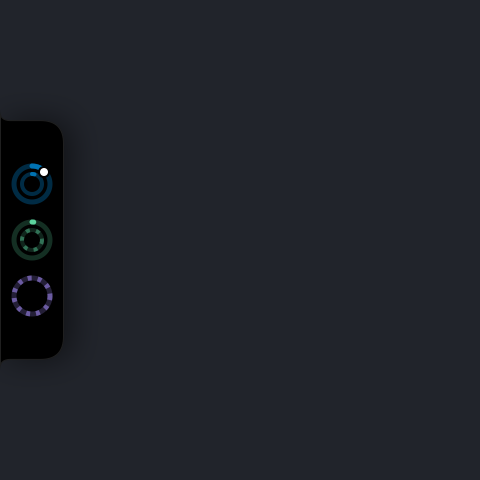
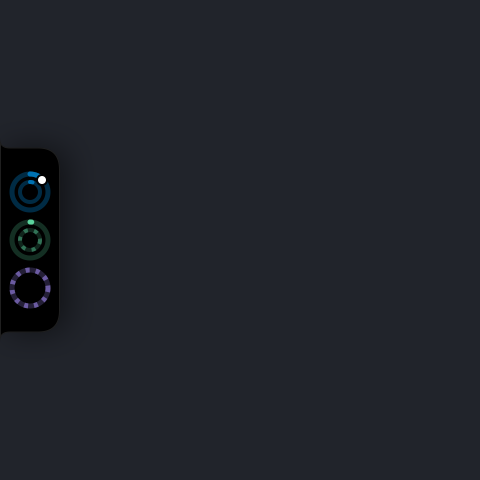
Halve the side notch's depth, and let it read as the cut it claims to be
The side notch shipped 72 pt deep against a 189 pt run. The hardware notch is
38 over 185 — a ratio of 0.21 — so at 0.38 it was very nearly twice as deep in
proportion as the thing it imitates, and it read as a slab bolted to the edge
rather than as a piece taken out of the screen.

Nothing about the shape was wrong. The depth of a side notch is set by the
width of the widest thing inside it, and that was "100% · 50%": the two window
figures on one line, laid out the way the strip beside the top notch lays them
out, where one line is the right answer because there the long axis is the one
with room. On a side edge it is the short one.

So the figures stack on the side edges, at 9.5 pt rather than 11 because two
lines have to fit where one did. The same two numbers now take about 26 points
across instead of 62, and the shape measures 35 × 188.

Stacking costs height, and the height was already the other half of "too big",
so the run is paid for twice over. `flareCap` goes from 16 to 10: it caps the
fillet, but it is also what `EdgeNotch` pads by at each end of the run, and the
padding is the more expensive of the two jobs on a shape whose whole point is
to be shallow. At 54 pt — the deepest a side pill gets, rings and numbers with
the reset countdown on — the flare is 8.5, so the tighter cap clips nothing a
user can reach. `EdgeCompactView` gives up four points of vertical padding and
four of spacing, and a ring sits one point closer to its own figures.
[…]

Changed region(s): [[0.0, 0.25, 0.1562, 0.75]]

diff --git a/Sources/Notchmeter/NotchViews.swift b/Sources/Notchmeter/NotchViews.swift
@@ -373,24 +373,41 @@ struct CompactNumbers: View {
     var badges = false
     var signal: ToolSignal? = nil
     var presence: PresenceLevel = .legible
+    /// One figure a line, for the side edges. A notch is a shallow shape — the hardware one is 185 across and 38
+    /// deep — and the depth of a side notch is set by nothing but the width of the widest thing in it. Laid out
+    /// the way the top strip lays them out, "100% · 50%" made the shape 76 points deep against a 181 point run:
+    /// a ratio of 0.42 where the notch it imitates is 0.17, which is what made it read as a slab bolted to the
+    /// edge rather than a piece taken out of the screen. Stacked, and a point and a half smaller because two
+    /// lines have to fit where one did, the same two figures take about 26 points across instead of 62 and the
+    /// shape comes back to a notch's proportions without losing a number.
+    var stacked = false
 
     var body: some View {
         TimelineView(.periodic(from: .now, by: countdown ? 60 : 3600)) { context in
             let segments = CompactLabel.segments(for: windows, display: display, countdown: countdown, now: context.date)
-            HStack(spacing: 3) {
-                if badges, status.problem != nil {
-                    ProblemMark()
+            let figures = ForEach(Array(segments.enumerated()), id: \.offset) { index, segment in
+                if index > 0, !stacked {
+                    Text(verbatim: CompactLabel.separator).foregroundStyle(.secondary)
                 }
-                ForEach(Array(segments.enumerated()), id: \.offset) { index, segment in
-                    if index > 0 {
-                        Text(verbatim: CompactLabel.separator).foregroundStyle(.secondary)
+                Text(verbatim: segment.text)
+                    .foregroundStyle(color(for: segment))
+                    .contentTransition(AccessibilityDisplay.shared.motionReduced ? .identity : .numericText())
+            }
+            Group {
+                if stacked {
+                    // No separator between them: the line break is the separator, and a dot on its own line reads
+                    // as a bullet rather than as the join it is.
+                    VStack(alignment: .center, spacing: 0) { figures }
+                } else {
+                    HStack(spacing: 3) {
+                        if badges, status.problem != nil {
+                            ProblemMark()
+                        }
+                        figures
                     }
-                    Text(verbatim: segment.text)
-                        .foregroundStyle(color(for: segment))
-                        .contentTransition(AccessibilityDisplay.shared.motionReduced ? .identity : .numericText())
                 }
             }
-            .font(.system(size: 11, weight: .semibold, design: .rounded))
+            .font(.system(size: stacked ? 9.5 : 11, weight: .semibold, design: .rounded))
             .monospacedDigit()
             .opacity(presence.readoutOpacity)
             .overlay(alignment: .topTrailing) {
@@ -566,7 +583,7 @@ struct CompactReadout: View {
         let reduceMotion = AccessibilityDisplay.shared.motionReduced
         Group {
             if axis == .vertical {
-                VStack(spacing: 3) { parts }
+                VStack(spacing: 2) { parts }
             } else {
                 HStack(spacing: 5) { parts }
             }
@@ -610,7 +627,7 @@ struct CompactReadout: View {
             }
             if showNumbers {
                 CompactNumbers(tool: tool, status: status, windows: windows, display: display, countdown: countdown,
-                               badges: !style.showsRings, signal: signal, presence: presence)
+                               badges: !style.showsRings, signal: signal, presence: presence, stacked: axis == .vertical)
             }
         }
     }
@@ -721,7 +738,7 @@ struct EdgeCompactView: View {
             if horizontal {
                 HStack(spacing: 10) { readouts }.padding(.horizontal, 12).padding(.vertical, 7)
             } else {
-                VStack(spacing: 10) { readouts }.padding(.vertical, 12).padding(.horizontal, 7)
+                VStack(spacing: 6) { readouts }.padding(.vertical, 8).padding(.horizontal, 6)
             }
         }
         .environment(\.layoutDirection, .leftToRight)

diff --git a/Tests/NotchmeterTests/SideNotchTests.swift b/Tests/NotchmeterTests/SideNotchTests.swift
@@ -33,13 +33,15 @@ import Testing
         #expect(radii.nose == 14)
     }
 
-    /// The notch the app actually draws. A fixed 6 pt flare on a shape more than twice as deep as the hardware
-    /// notch would read as a nick in a rounded rectangle rather than as the same cut.
+    /// The notch the app actually draws. A fixed 6 pt flare on a shape deeper than the hardware notch would read
+    /// as a nick in a rounded rectangle rather than as the same cut.
     @Test func theShippedDepthScalesBothRadiiWithIt() {
-        // The measured pill is 82 pt deep (docs/qa/e2e-report.md): 82 × 6/38 = 12.947…, 82 × 14/38 = 30.210…
-        let radii = SideNotchShape.radii(depth: 82, run: 234)
-        #expect(abs(radii.flare - 82 * 6 / 38) < 0.001)
-        #expect(abs(radii.nose - 82 * 14 / 38) < 0.001)
+        // The side pill measures 35 pt deep at rings and numbers and 54 with the reset countdown on, which is the
+        // deepest a user can make it: 54 × 6/38 = 8.526…, 54 × 14/38 = 19.894…, and the flare is still under its
+        // cap, which is what lets EdgeNotch pad by the cap without ever clipping a ring.
+        let radii = SideNotchShape.radii(depth: 54, run: 234)
+        #expect(abs(radii.flare - 54 * 6 / 38) < 0.001)
+        #expect(abs(radii.nose - 54 * 14 / 38) < 0.001)
         #expect(radii.flare < SideNotchShape.flareCap,
                 "the padding EdgeNotch adds is the cap, so a flare at or past it would start clipping the rings")
     }
@@ -47,7 +49,7 @@ import Testing
     /// The no-room fallback never draws this shape, but a wide density or a future readout could still deepen it,
     /// and the ratios alone would flare a panel-deep shape sixty points and turn a notch into a leaf.
     @Test func theRadiiAreCappedSoADeepShapeIsStillANotch() {
-        // 200 × 6/38 = 31.6 and 200 × 14/38 = 73.7, both far past the caps of 16 and 36.
+        // 200 × 6/38 = 31.6 and 200 × 14/38 = 73.7, both far past the caps of 10 and 36.
         let radii = SideNotchShape.radii(depth: 200, run: 800)
         #expect(radii.flare == SideNotchShape.flareCap)
         #expect(radii.nose == SideNotchShape.noseCap)
@@ -97,8 +99,11 @@ import Testing
 }
 
 /// Where the notch and the panel go once a side is flush and the panel opens beside it. The arithmetic is worked
-/// against the sizes a real run measured on a 1512 × 982 display (docs/qa/e2e-report.md): an 82 × 202 pt pill
-/// and a 388 × 855 pt panel.
+/// against a 388 × 855 pt panel on a 1512 × 982 display (docs/qa/e2e-report.md) and an 82 × 202 pt pill, which is
+/// deliberately deeper than the one that ships: the shape measures 35 × 188 at rings and numbers since the figures
+/// were stacked, and 54 at its widest with the reset countdown on. A stand-in half again as deep as the widest
+/// real one keeps the placement under more pressure than a user can put it under, which is what these tests are
+/// for — the no-room fallback fires on width, and a pill that cannot fill the margin would never reach it.
 @Suite struct EdgeArrangementTests {
     private let notch = NSSize(width: 82, height: 202)
     private let panel = NSSize(width: 388, height: 855)

diff --git a/Sources/Notchmeter/SideNotch.swift b/Sources/Notchmeter/SideNotch.swift
@@ -15,9 +15,17 @@ import SwiftUI
 /// inward, which is the trick the hardware notch plays and the only reason this layout exists.
 ///
 /// Both radii are fractions of how deep the shape is rather than fixed numbers, so the same shape at the top
-/// notch's own depth draws the top notch's own radii. Fixed radii would give the 82 pt-deep side notch this app
-/// measures the same 6 pt flare a 38 pt-deep hardware notch has, which reads as a nick in a rounded rectangle
-/// rather than as the same cut, and the two layouts would stop looking like one object.
+/// notch's own depth draws the top notch's own radii, and a shallower one draws proportionally shallower fillets
+/// instead of the same 6 pt flare at every size — which at the depths a side pill actually reaches would read as
+/// a nick in a rounded rectangle rather than as the same cut, and the two layouts would stop looking like one
+/// object.
+///
+/// Depth is the whole argument for this shape and it is worth writing down what it costs. The side pill first
+/// shipped laying each tool's two figures on one line, the way the strip beside the top notch lays them out, and
+/// that made it 72 pt deep against a 189 pt run: a ratio of 0.38 where the hardware notch is 38 over 185, or
+/// 0.21. It read as a slab bolted to the edge. Stacking the figures (`CompactNumbers.stacked`) took it to 35 by
+/// 203 — 0.17, shallower than the notch it imitates — and the run came back with a tighter cap here and less
+/// padding in `EdgeCompactView`.
 struct SideNotchShape: Shape {
     /// Which screen edge the straight face lies against. Only `.left` and `.right` draw this shape.
     let edge: PanelEdge
@@ -27,8 +35,12 @@ struct SideNotchShape: Shape {
     nonisolated static let flareRatio: CGFloat = 6 / SideNotchShape.referenceDepth
     nonisolated static let noseRatio: CGFloat = 14 / SideNotchShape.referenceDepth
     /// Past these the ratios stop flattering the shape: a panel-deep version would flare sixty points and read as
-    /// a leaf. The flare's cap is also what `EdgeNotch` pads by, so the cap is what makes that padding provable.
-    nonisolated static let flareCap: CGFloat = 16
+    /// a leaf. The flare's cap is also what `EdgeNotch` pads by, so the cap is what makes that padding provable —
+    /// and that second job is why it is 10 and not the 16 it started at. The padding is spent twice, once at each
+    /// end of the run, on a shape whose whole point is to be shallow: at the deepest a side pill actually gets
+    /// (54 pt, rings and numbers with the reset countdown on) the flare is 8.5, so a cap of 10 clips nothing a
+    /// user can reach and hands twelve points of run back to a shape that was reading too tall.
+    nonisolated static let flareCap: CGFloat = 10
     nonisolated static let noseCap: CGFloat = 36
 
     /// The radii for a shape of this depth and run, capped and then held inside the run. Exposed rather than
